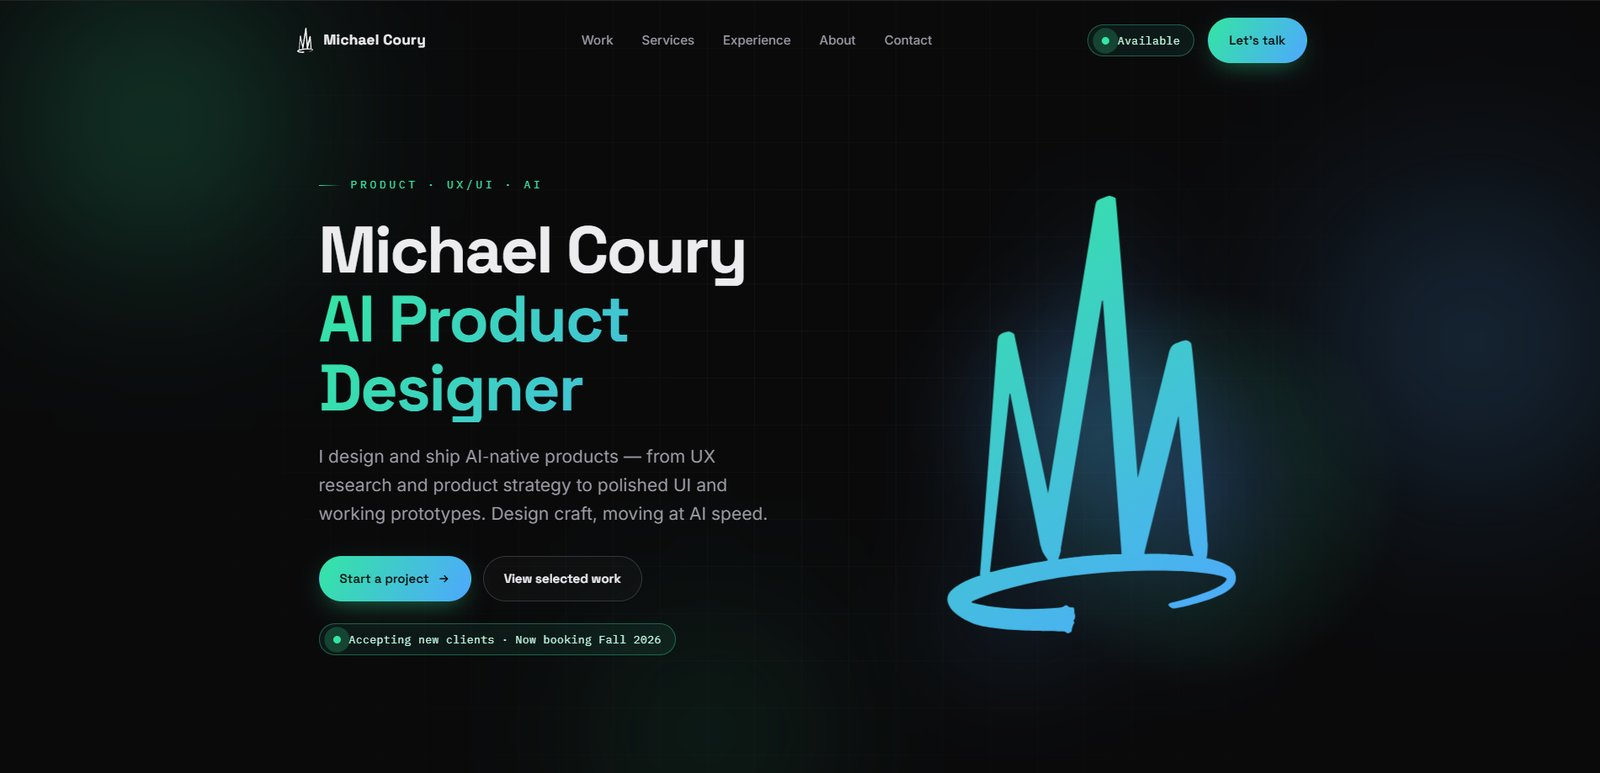
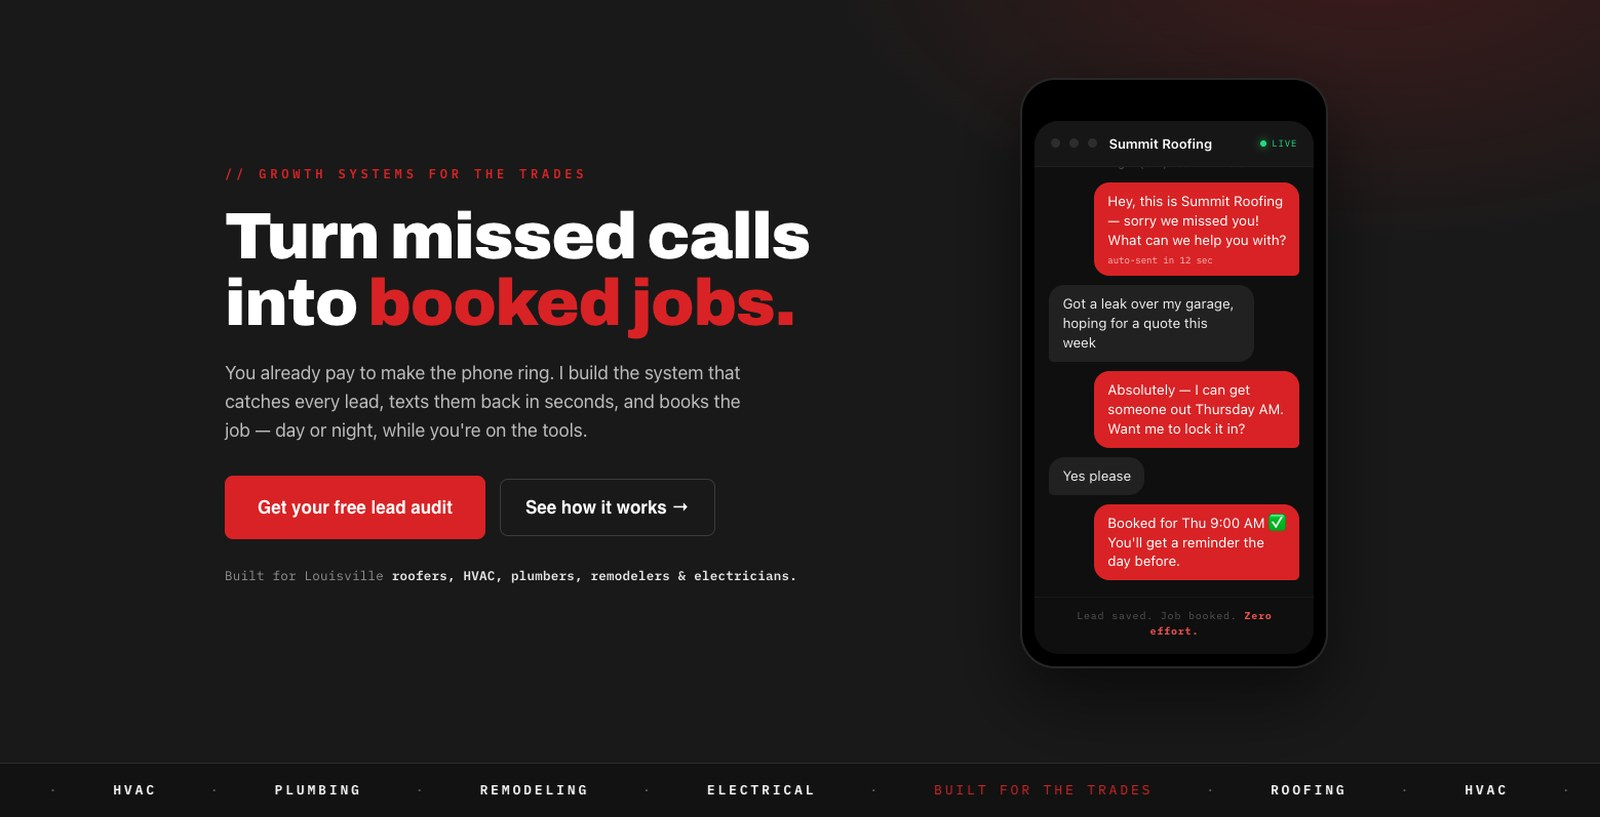
AI-Built Tooling Page Content

diff --git a/work/ai-product-tooling.html b/work/ai-product-tooling.html
@@ -4,9 +4,9 @@
 <meta charset="UTF-8"/>
 <meta name="viewport" content="width=device-width, initial-scale=1"/>
 <title>AI-Built Product Tooling — Michael Coury</title>
-<meta name="description" content="A suite of production tools and deliverables built with AI — compressing weeks of design, development, and ops work into hours."/>
+<meta name="description" content="A suite of production-ready design systems, dashboards, and tools built with AI — including the TRUCE design system, a web-console navigation redesign, and the Lead Systems AI product concept."/>
 <meta property="og:title" content="AI-Built Product Tooling — Michael Coury"/>
-<meta property="og:description" content="A suite of production tools and deliverables built with AI — compressing weeks of design, development, and ops work into hours."/>
+<meta property="og:description" content="A suite of production-ready design systems, dashboards, and tools built with AI — including the TRUCE design system, a web-console navigation redesign, and the Lead Systems AI product concept."/>
 <meta property="og:image" content="../assets/og-image.png"/>
 <link rel="icon" type="image/svg+xml" href="../assets/favicon.svg"/>
 <link rel="apple-touch-icon" href="../assets/apple-touch-icon.png"/>
@@ -15,6 +15,151 @@
 <link rel="preconnect" href="https://fonts.gstatic.com" crossorigin>
 <link href="https://fonts.googleapis.com/css2?family=Space+Grotesk:wght@400;500;600;700&family=Inter:wght@400;500;600&family=IBM+Plex+Mono:wght@400;500;600;700&display=swap" rel="stylesheet">
 <link rel="stylesheet" href="../styles.css"/>
+<style>
+/* ===== case-study gallery extensions (scoped x-*) ===== */
+.cs-cover.has-img,.cs-shot.has-img{background:#0c0c0e}
+.cs-cover.has-img::before,.cs-shot.has-img::before{opacity:0}
+.cs-cover.has-img img,.cs-shot.has-img img{position:absolute;inset:0;width:100%;height:100%;object-fit:cover}
+.x-work{margin-top:64px}
+.x-sec{padding-top:56px;margin-top:56px;border-top:1px solid var(--line)}
+.x-sec:first-child{border-top:none;margin-top:0}
+.x-top{display:flex;align-items:flex-end;justify-content:space-between;gap:24px;flex-wrap:wrap;margin-bottom:30px}
+.x-h2{font-family:var(--font-d);font-weight:700;font-size:clamp(24px,3.4vw,38px);letter-spacing:-.02em;max-width:820px}
+.x-lead{color:var(--muted);font-size:18px;max-width:730px;margin-top:14px}
+.x-count{color:var(--muted);font-size:14px;font-family:var(--font-m);white-space:nowrap}
+.x-count b{color:var(--green)}
+.x-cap{color:var(--muted);font-size:14px;margin-top:12px}
+.x-wide{border-radius:var(--r-lg);overflow:hidden;border:1px solid var(--line);background:var(--surface)}
+.x-wide.plain{background:transparent;border:none}
+.x-wide img{width:100%;display:block}
+.x-mt{margin-top:24px}
+/* websites */
+.x-web{display:grid;grid-template-columns:1fr 1fr;gap:22px}
+.x-webcard{background:var(--surface);border:1px solid var(--line);border-radius:var(--r-lg);padding:18px;transition:.3s}
+.x-webcard:hover{transform:translateY(-4px);border-color:var(--blue)}
+.x-webcard img{width:100%;display:block;border-radius:10px}
+.x-webcard .cap{margin-top:13px;color:var(--muted);font-size:14px}
+.x-thumbs{display:grid;grid-template-columns:repeat(4,1fr);gap:16px;margin-top:20px}
+.x-thumb{background:var(--surface);border:1px solid var(--line);border-radius:12px;overflow:hidden}
+.x-thumb img{width:100%;display:block}
+/* logos */
+.x-logos{display:grid;grid-template-columns:repeat(4,1fr);gap:18px}
+.x-logo{background:#f5f6f8;border-radius:var(--r-lg);aspect-ratio:4/3;display:flex;align-items:center;justify-content:center;padding:28px;position:relative;overflow:hidden;transition:.3s}
+.x-logo:hover{transform:translateY(-3px);box-shadow:var(--shadow)}
+.x-logo img{max-width:100%;max-height:100%;object-fit:contain}
+.x-logo .name{position:absolute;left:0;right:0;bottom:0;color:#5c5c66;font-family:var(--font-m);font-size:10px;letter-spacing:.08em;text-transform:uppercase;padding:8px 10px;opacity:0;transition:.2s;text-align:center;background:rgba(0,0,0,.04)}
+.x-logo:hover .name{opacity:1}
+/* wild */
+.x-wild{display:grid;grid-template-columns:2fr 1fr;gap:20px}
+.x-wild .stack{display:grid;grid-template-rows:1fr 1fr;gap:20px}
+.x-fig{border-radius:var(--r-lg);overflow:hidden;border:1px solid var(--line);position:relative;height:100%}
+.x-fig img{width:100%;height:100%;object-fit:cover;display:block}
+.x-fig figcaption{position:absolute;left:0;right:0;bottom:0;padding:15px 17px;background:linear-gradient(180deg,rgba(10,10,11,0),rgba(10,10,11,.85));font-size:13px;color:var(--text)}
+.x-fig.big img{min-height:420px}
+/* seo */
+.x-seo{display:grid;grid-template-columns:1fr 1fr;gap:40px;align-items:center}
+.x-seo .panel{background:#fff;border-radius:var(--r-lg);padding:20px;border:1px solid var(--line)}
+.x-seo .panel img{width:100%;display:block;border-radius:6px}
+.x-list{list-style:none;margin-top:20px;display:flex;flex-direction:column;gap:13px}
+.x-list li{display:flex;gap:12px;color:var(--muted);font-size:16px}
+.x-list li::before{content:"";width:9px;height:9px;border-radius:50%;background:var(--grad);margin-top:9px;flex:none}
+/* merch */
+.x-merch{display:grid;grid-template-columns:repeat(3,1fr);gap:20px}
+.x-merch figure{border-radius:var(--r-lg);overflow:hidden;border:1px solid var(--line);background:var(--surface)}
+.x-merch img{width:100%;display:block;object-fit:cover}
+.x-merch figcaption{padding:13px 16px;color:var(--muted);font-size:13px}
+.x-tall{grid-row:span 2}
+/* brand feature */
+.x-brandfeat{display:grid;grid-template-columns:1.3fr 1fr;gap:36px;align-items:center}
+.x-brandfeat .shot{border-radius:var(--r-lg);overflow:hidden;border:1px solid var(--line)}
+.x-brandfeat .shot img{width:100%;display:block}
+.x-brandfeat p{color:var(--muted);margin-bottom:14px}.x-brandfeat strong{color:var(--text)}
+.x-swatches{display:flex;gap:10px;margin-top:20px;align-items:center}
+.x-sw{width:38px;height:38px;border-radius:10px;border:1px solid var(--line)}
+.x-swlabel{font-family:var(--font-m);font-size:12px;color:var(--muted)}
+/* devices */
+.x-devices{display:grid;grid-template-columns:repeat(3,1fr);gap:24px}
+.x-phone{background:var(--surface-2);border:1px solid var(--line);border-radius:26px;padding:12px;transition:.3s}
+.x-phone:hover{transform:translateY(-4px);border-color:var(--green)}
+.x-phone img{width:100%;display:block;border-radius:16px}
+.x-phone .cap{color:var(--muted);font-size:13px;text-align:center;padding:12px 6px 4px}
+/* masonry */
+.x-mkt{columns:3;column-gap:20px}
+.x-mkt figure{break-inside:avoid;margin-bottom:20px;border-radius:var(--r);overflow:hidden;border:1px solid var(--line);background:var(--surface)}
+.x-mkt img{width:100%;display:block}
+.x-mkt figcaption{padding:12px 14px;color:var(--muted);font-size:13px}
+/* duo / launch */
+.x-duo,.x-launch{display:grid;gap:20px}
+.x-duo{grid-template-columns:1fr 1fr}
+.x-launch{grid-template-columns:2fr 1fr}
+.x-duo figure,.x-launch figure{border-radius:var(--r-lg);overflow:hidden;border:1px solid var(--line);background:var(--surface)}
+.x-duo img,.x-launch img{width:100%;display:block}
+.x-duo figcaption,.x-launch figcaption{padding:12px 16px;color:var(--muted);font-size:13px}
+/* logo hero */
+.x-logohero{background:radial-gradient(circle at 50% 40%,#242012,#0d0d0e 70%);border:1px solid var(--line);border-radius:var(--r-lg);padding:60px;display:flex;align-items:center;justify-content:center}
+.x-logohero img{max-width:70%;display:block}
+/* coach */
+.x-coach{display:grid;grid-template-columns:1fr 1.2fr;gap:36px;align-items:center}
+.x-coach .photo{border-radius:var(--r-lg);overflow:hidden;border:1px solid var(--line)}
+.x-coach .photo img{width:100%;display:block}
+.x-coach p{color:var(--muted);margin-bottom:14px}.x-coach strong{color:var(--text)}
+/* truce stats */
+.x-stats{display:grid;grid-template-columns:repeat(3,1fr);gap:16px}
+.x-stat{background:var(--surface);border:1px solid var(--line);border-radius:var(--r-lg);padding:24px 20px}
+.x-stat .n{font-family:var(--font-d);font-weight:700;font-size:28px;letter-spacing:-.01em;background:var(--grad);-webkit-background-clip:text;background-clip:text;color:transparent;line-height:1.1}
+.x-stat .l{color:var(--muted);font-size:14px;margin-top:8px}
+/* screens */
+.x-screens{display:grid;grid-template-columns:1fr 1fr;gap:28px;max-width:760px;margin:0 auto}
+.x-screens figure{border-radius:22px;overflow:hidden;border:1px solid var(--line);background:var(--surface-2);padding:10px}
+.x-screens img{width:100%;display:block;border-radius:14px}
+.x-screens figcaption{color:var(--muted);font-size:13px;text-align:center;padding:12px 0 4px}
+/* grid-2 */
+.x-grid2{display:grid;grid-template-columns:1fr 1fr;gap:22px}
+.x-grid2 figure{border-radius:var(--r-lg);overflow:hidden;border:1px solid var(--line);background:var(--surface)}
+.x-grid2 img{width:100%;display:block}
+.x-grid2 figcaption{padding:12px 16px;color:var(--muted);font-size:13px}
+/* flow feature */
+.x-flow{display:grid;grid-template-columns:1fr 1.4fr;gap:36px;align-items:start}
+.x-flow .txt{position:sticky;top:100px}
+.x-flow p{color:var(--muted);margin-bottom:14px}.x-flow strong{color:var(--text)}
+.x-flowscroll{border-radius:var(--r-lg);border:1px solid var(--line);background:var(--surface);padding:14px;max-height:720px;overflow:hidden;position:relative}
+.x-flowscroll img{width:100%;display:block;border-radius:8px}
+.x-flowscroll::after{content:"";position:absolute;inset:auto 0 0 0;height:90px;background:linear-gradient(180deg,rgba(21,21,23,0),var(--surface))}
+/* outcome cards */
+.x-outcome{display:grid;grid-template-columns:repeat(3,1fr);gap:18px}
+.x-ocard{background:var(--surface);border:1px solid var(--line);border-radius:var(--r-lg);padding:26px 22px}
+.x-ocard h3{font-size:19px;margin-bottom:8px}.x-ocard p{color:var(--muted);font-size:15px}
+@media(max-width:860px){
+  .x-web,.x-wild,.x-seo,.x-brandfeat,.x-coach,.x-flow,.x-duo,.x-launch,.x-grid2{grid-template-columns:1fr}
+  .x-logos,.x-thumbs,.x-merch{grid-template-columns:1fr 1fr}
+  .x-devices{grid-template-columns:1fr}
+  .x-stats,.x-outcome{grid-template-columns:1fr}
+  .x-mkt{columns:1}
+  .x-flow .txt{position:static}
+  .x-screens{grid-template-columns:1fr 1fr}
+}
+</style>
+<style>
+/* AI page extras */
+.x-ds{display:grid;grid-template-columns:repeat(3,1fr);gap:18px}
+.x-ds figure{border-radius:var(--r-lg);overflow:hidden;border:1px solid var(--line);background:var(--surface);transition:.25s}
+.x-ds figure:hover{transform:translateY(-3px);border-color:var(--blue)}
+.x-ds img{width:100%;display:block}
+.x-ds figcaption{padding:12px 16px;color:var(--muted);font-size:13px}
+.x-ba{display:grid;grid-template-columns:1fr 1fr;gap:24px}
+.x-compare{background:var(--surface);border:1px solid var(--line);border-radius:var(--r-lg);padding:22px}
+.x-compare h4{font-family:var(--font-d);font-size:16px;margin-bottom:16px;color:var(--text)}
+.x-pair{display:grid;grid-template-columns:1fr 1fr;gap:14px;align-items:start}
+.x-panel{position:relative;background:var(--bg-2);border:1px solid var(--line);border-radius:12px;padding:12px;display:flex;justify-content:center}
+.x-panel img{max-height:470px;width:auto;display:block;border-radius:6px}
+.x-tag{position:absolute;top:9px;left:9px;z-index:2;font-family:var(--font-m);font-size:10px;letter-spacing:.1em;text-transform:uppercase;padding:4px 9px;border-radius:999px}
+.x-tag.before{background:rgba(154,154,163,.16);color:var(--muted);border:1px solid var(--line-2)}
+.x-tag.after{background:rgba(52,229,163,.14);color:var(--green);border:1px solid rgba(52,229,163,.4)}
+.x-states{display:grid;grid-template-columns:repeat(4,1fr);gap:16px;margin-top:22px}
+.x-states .x-panel img{max-height:380px}
+.x-states figcaption,.x-scap{color:var(--muted);font-size:12.5px;text-align:center;margin-top:8px;font-family:var(--font-m)}
+@media(max-width:860px){.x-ds{grid-template-columns:1fr 1fr}.x-ba{grid-template-columns:1fr}.x-states{grid-template-columns:1fr 1fr}}
+</style>
 </head>
 <body>
 <div id="glow"></div>
@@ -42,16 +187,110 @@
   <div class="wrap">
     <a class="cs-back" href="../index.html#work"><svg viewBox="0 0 24 24" fill="none" stroke-width="2.2"><path d="M19 12H5M11 18l-6-6 6-6"/></svg> Back to work</a>
     <div class="cs-hero">
-      <span class="eyebrow">Case study · 2025</span>
+      <span class="eyebrow">Case study · 2025 – 2026</span>
       <h1>AI-Built Product Tooling</h1>
-      <p class="cs-lead">Using AI as a build partner to ship production-ready tools and client deliverables in a fraction of the usual time — without losing design craft.</p>
-      <div class="cs-chips"><div><span>Role</span><b>AI Product Design · Prototyping</b></div><div><span>Timeline</span><b>2025</b></div><div><span>Stack</span><b>HTML/CSS/JS · Claude</b></div><div><span>Focus</span><b>AI · Automation</b></div></div>
+      <p class="cs-lead">Using AI as a build partner to ship production-ready design systems, product UI, and full front-ends in a fraction of the usual time — without losing design craft.</p>
+      <div class="cs-chips"><div><span>Role</span><b>AI Product Design · Prototyping</b></div><div><span>Timeline</span><b>2025 – 2026</b></div><div><span>Stack</span><b>HTML/CSS/JS · Claude</b></div><div><span>Focus</span><b>AI · Design Systems · Automation</b></div></div>
     </div>
-    <!-- REPLACE cover: drop <img src="..."> inside .cs-cover -->
-    <figure class="cs-cover"><span class="cn">AI Design Tooling</span><span class="rep">replace with hero screenshot</span></figure>
+    <figure class="cs-cover has-img"><img src="../assets/ai/lead-hero.png" alt="Lead Systems AI — turn missed calls into booked jobs"></figure>
     <div class="cs-body">
-      <div class="cs-block reveal"><h2>Overview</h2><p>This is an ongoing body of work exploring how far AI can push a single designer's output. Using <strong>AI as a design-and-build partner</strong>, I produce production-ready internal tools, client deliverables, and full front-ends at a speed that used to require a team.</p></div><div class="cs-block reveal"><h2>The challenge</h2><p>Deliver the full stack of a design business — research, UI, working code, brand assets, and ops — solo, fast, and repeatably, <strong>without the output feeling generated</strong> or cutting corners on craft.</p></div><div class="cs-block reveal"><h2>Approach &amp; process</h2><p>I design the prompts, flows, and guardrails, then drive AI through a design-to-code pipeline — reviewing, art-directing, and refining every step so the result is intentional. A few of the tools and deliverables built this way:</p><ul class='pts'><li><b>Client pipeline tracker</b> — a kanban CRM app with local persistence and MRR tracking</li><li><b>Live financial dashboard</b> — built from real data with an interactive gap-closer</li><li><b>Branded PDF &amp; graphic generators</b> — pixel-consistent, on-brand collateral on demand</li><li><b>Design-to-spec pipelines</b> — turning concepts into engineering-ready specs</li><li><b>This portfolio</b> — a fully custom, interactive front-end</li></ul><figure class="cs-shot"><div class="ph">Tools & deliverables gallery</div><span class="rep">replace with screenshot</span></figure></div><div class="cs-block reveal"><h2>The solution</h2><p>A repeatable way of working where AI handles the heavy lifting and I hold the taste, strategy, and quality bar — turning ideas into finished, branded, working artifacts the same day.</p></div><div class="cs-block reveal"><h2>Outcome</h2><p>The result is a genuinely different velocity: work that once took weeks now ships in hours, fully branded and production-ready — the edge behind everything else in this portfolio.</p><div class="cs-metrics"><div class="cs-metric"><b>Weeks → Hours</b><span>Delivery speed</span></div><div class="cs-metric"><b>Production-ready</b><span>Not just mockups</span></div><div class="cs-metric"><b>Fully branded</b><span>Consistent output</span></div></div></div>
+      <div class="cs-block reveal"><h2>Overview</h2><p>This is an ongoing body of work exploring how far AI can push a single designer's output. Using <strong>AI as a design-and-build partner</strong>, I produce production-ready design systems, internal tools, product UI, and full front-ends at a speed that used to require a team.</p></div>
+      <div class="cs-block reveal"><h2>The challenge</h2><p>Deliver the full stack of product design — systems, UI, working code, and brand — solo, fast, and repeatably, <strong>without the output feeling generated</strong> or cutting corners on craft.</p></div>
+      <div class="cs-block reveal"><h2>Approach &amp; process</h2><p>I design the prompts, flows, and guardrails, then drive AI through a design-to-code pipeline — reviewing, art-directing, and refining every step so the result is intentional. The work below is a real cross-section, from a full TRUCE design-token system to a self-initiated AI product concept:</p><ul class='pts'><li><b>TRUCE Design System</b> — a complete, documented token reference</li><li><b>Web console navigation redesign</b> — a measured before/after</li><li><b>Live insight &amp; driving-score dashboards</b> built from real data</li><li><b>Resource Center &amp; design-to-spec skills</b> — spec and QA generators</li><li><b>Lead Systems AI</b> — a self-initiated, end-to-end product concept</li></ul></div>
+      <div class="cs-block reveal"><h2>The solution</h2><p>A repeatable way of working where AI handles the heavy lifting and I hold the taste, strategy, and quality bar — turning ideas into finished, branded, working artifacts the same day.</p></div>
     </div>
+
+    <div class="x-work">
+      <section class="x-sec reveal">
+        <div class="x-top"><div><span class="eyebrow">01 — Design System</span><h2 class="x-h2" style="margin-top:12px">A full TRUCE design-token system.</h2><p class="x-lead">A complete, documented token reference — colors, type, spacing, motion, logo variants, and platform icons — generated and refined with Claude, structured so engineering can consume it directly.</p></div></div>
+        <div class="x-ds">
+          <figure><img src="../assets/ai/ds-colors.png" alt="Color tokens"><figcaption>Colors — primary, secondary &amp; semantic</figcaption></figure>
+          <figure><img src="../assets/ai/ds-type.png" alt="Typography tokens"><figcaption>Typography — families &amp; type scale</figcaption></figure>
+          <figure><img src="../assets/ai/ds-spacing.png" alt="Spacing tokens"><figcaption>Spacing, radius &amp; grid</figcaption></figure>
+          <figure><img src="../assets/ai/ds-motion.png" alt="Motion tokens"><figcaption>Motion, shadow &amp; elevation</figcaption></figure>
+          <figure><img src="../assets/ai/ds-logos.png" alt="Logo variants"><figcaption>Logo variants &amp; usage</figcaption></figure>
+          <figure><img src="../assets/ai/ds-icons.png" alt="Platform icons"><figcaption>Platform product icons</figcaption></figure>
+        </div>
+      </section>
+
+      <section class="x-sec reveal">
+        <div class="x-top"><div><span class="eyebrow">02 — Navigation Redesign</span><h2 class="x-h2" style="margin-top:12px">Web console navigation — before &amp; after.</h2><p class="x-lead">Reworking the platform's left-hand navigation from a flat text menu into a compact icon rail with clear, on-demand depth.</p></div></div>
+        <div class="x-ba">
+          <div class="x-compare"><h4>Primary navigation</h4>
+            <div class="x-pair">
+              <div class="x-panel"><span class="x-tag before">Before</span><img src="../assets/ai/nav1-before.png" alt="Nav before"></div>
+              <div class="x-panel"><span class="x-tag after">After</span><img src="../assets/ai/nav1-after.png" alt="Nav after"></div>
+            </div>
+          </div>
+          <div class="x-compare"><h4>Expanded / sub-navigation</h4>
+            <div class="x-pair">
+              <div class="x-panel"><span class="x-tag before">Before</span><img src="../assets/ai/nav2-before.png" alt="Nav before"></div>
+              <div class="x-panel"><span class="x-tag after">After</span><img src="../assets/ai/nav2-after.png" alt="Nav after"></div>
+            </div>
+          </div>
+        </div>
+        <div class="x-states" style="grid-template-columns:repeat(2,1fr);max-width:620px;margin:22px auto 0">
+          <div><div class="x-panel"><span class="x-tag after">After</span><img src="../assets/ai/nav3-after.png" alt="Nav flyout state"></div><div class="x-scap">Expanded sub-menu (flyout)</div></div>
+          <div><div class="x-panel"><span class="x-tag after">After</span><img src="../assets/ai/nav4-after.png" alt="Nav active state"></div><div class="x-scap">Active section state</div></div>
+        </div>
+      </section>
+
+      <section class="x-sec reveal">
+        <div class="x-top"><div><span class="eyebrow">03 — Product Surfaces</span><h2 class="x-h2" style="margin-top:12px">Dashboards &amp; data, built from the real thing.</h2><p class="x-lead">Interactive insight and driving-score views, a fleet vehicles table, and a browsable resource center — designed and coded as working front-ends, not static mockups.</p></div></div>
+        <div class="x-wide"><img src="../assets/ai/insights.png" alt="Insights dashboard"></div>
+        <p class="x-cap">Insights dashboard — a live, filterable analytics view.</p>
+        <div class="x-grid2 x-mt">
+          <figure><img src="../assets/ai/drivescore.png" alt="Driving score analysis"><figcaption>Driving Score Analysis — distribution &amp; trends</figcaption></figure>
+          <figure><img src="../assets/ai/drivescore-bands.png" alt="Band migration"><figcaption>Band migration — how trips move between scores</figcaption></figure>
+        </div>
+        <div class="x-grid2 x-mt">
+          <figure><img src="../assets/ai/drivescore-logic.png" alt="Score logic"><figcaption>Score logic — why a final score lands where it does</figcaption></figure>
+          <figure><img src="../assets/ai/vehicles.png" alt="Vehicles table"><figcaption>Fleet vehicles — data-dense management table</figcaption></figure>
+        </div>
+        <div class="x-grid2 x-mt">
+          <figure><img src="../assets/ai/resource1.png" alt="Resource center"><figcaption>Resource Center — interactive product reference</figcaption></figure>
+          <figure><img src="../assets/ai/resource2.png" alt="Resource center detail"><figcaption>Resource Center — feature matrix by platform</figcaption></figure>
+        </div>
+      </section>
+
+      <section class="x-sec reveal">
+        <div class="x-top"><div><span class="eyebrow">04 — The AI System Behind It</span><h2 class="x-h2" style="margin-top:12px">Artifacts &amp; skills that compound.</h2><p class="x-lead">The work is organized into a browsable artifact library and a set of reusable "skills" — packaged instructions that teach Claude to generate specs, punchlists, and branded deliverables on demand.</p></div></div>
+        <div class="x-grid2">
+          <figure><img src="../assets/ai/artifact1.png" alt="Artifact library"><figcaption>Artifact library — a collection built with Claude</figcaption></figure>
+          <figure><img src="../assets/ai/artifact2.png" alt="Artifact library detail"><figcaption>Design system, resource center &amp; nav redesign, indexed</figcaption></figure>
+        </div>
+        <div class="x-grid2 x-mt">
+          <figure><img src="../assets/ai/skill1.png" alt="Skills library"><figcaption>Reusable skills — knowledge packaged for repeat tasks</figcaption></figure>
+          <figure><img src="../assets/ai/skill2.png" alt="Skill detail"><figcaption>PMT Spec-Creator &amp; UAT Punchlist — design-to-spec pipeline</figcaption></figure>
+        </div>
+      </section>
+
+      <section class="x-sec reveal">
+        <div class="x-top"><div><span class="eyebrow">05 — Self-Initiated Concept</span><h2 class="x-h2" style="margin-top:12px">Lead Systems AI</h2><p class="x-lead">An end-to-end product concept I designed and built solo with AI — an AI system that turns missed calls into booked jobs for trades businesses. Brand, marketing site, ROI tooling, and audit report, all of a piece.</p></div></div>
+        <div class="x-grid2">
+          <figure><img src="../assets/ai/lead-brandboard.png" alt="Brand board"><figcaption>Brand board — Signal Red / Forge Black identity</figcaption></figure>
+          <figure><img src="../assets/ai/lead-system.png" alt="System overview"><figcaption>"One system that catches every lead" — capability map</figcaption></figure>
+        </div>
+        <div class="x-grid2 x-mt">
+          <figure><img src="../assets/ai/lead-roi.png" alt="ROI calculator"><figcaption>Interactive ROI calculator — value of missed calls</figcaption></figure>
+          <figure><img src="../assets/ai/lead-convos.png" alt="Conversation demo"><figcaption>Conversation demo — what the system handles</figcaption></figure>
+        </div>
+        <div class="x-grid2 x-mt">
+          <figure><img src="../assets/ai/lead-steps.png" alt="Pricing and steps"><figcaption>"Three steps. Zero risk to start." — offer &amp; pricing</figcaption></figure>
+          <figure><img src="../assets/ai/lead-audit.png" alt="Audit report"><figcaption>Generated audit report — the cost of the leak</figcaption></figure>
+        </div>
+      </section>
+
+      <section class="x-sec reveal">
+        <div class="x-top"><div><span class="eyebrow">Outcome</span><h2 class="x-h2" style="margin-top:12px">A genuinely different velocity.</h2></div></div>
+        <div class="cs-metrics">
+          <div class="cs-metric"><b>Weeks → Hours</b><span>Delivery speed</span></div>
+          <div class="cs-metric"><b>Production-ready</b><span>Working code, not mockups</span></div>
+          <div class="cs-metric"><b>Fully branded</b><span>Consistent, intentional output</span></div>
+        </div>
+      </section>
+    </div>
+
     <section class="next-cta reveal">
       <h2>Want this speed on your project?</h2>
       <p>I design and ship AI-native products and tooling. Let's build something.</p>
